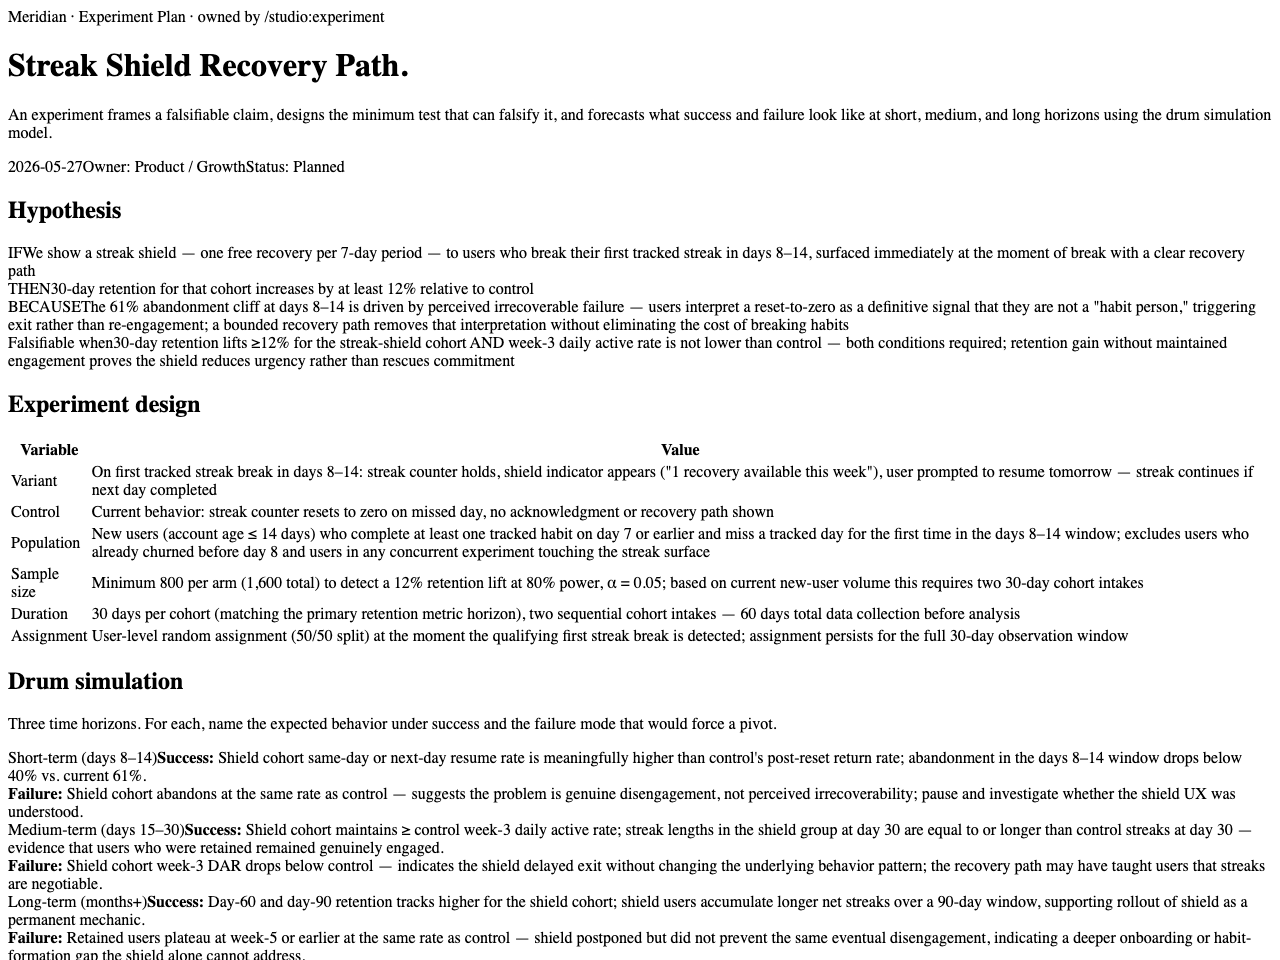
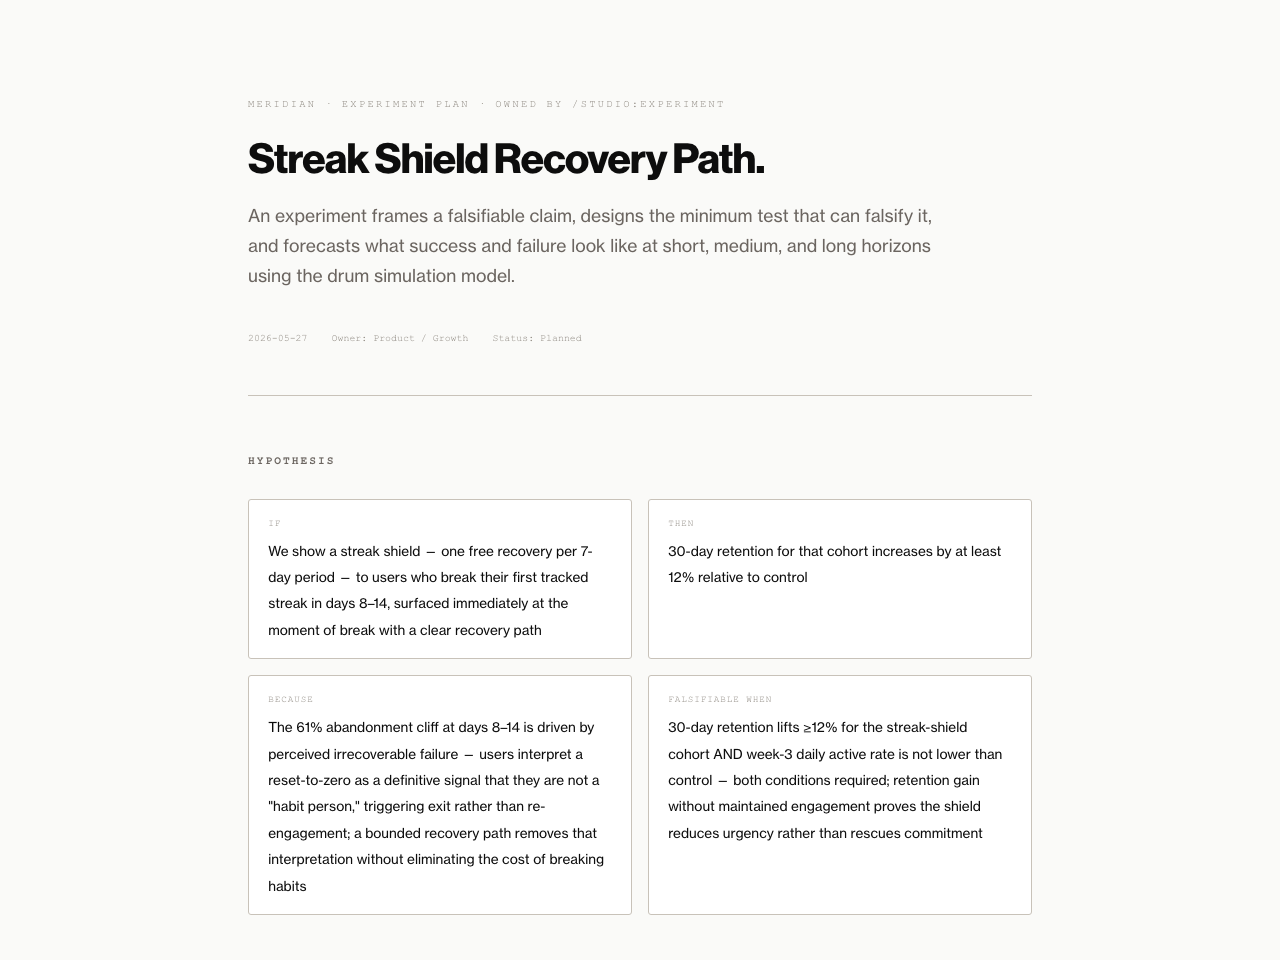
Fix CSS paths in example files + retake screenshots
docs/examples: ../kit/studio.css → ../../artifacts/kit/studio.css
docs/screenshots: all 7 example screenshots retaken with styles applied

diff --git a/docs/examples/vessel-comment-spec.html b/docs/examples/vessel-comment-spec.html
@@ -3,7 +3,7 @@
 <head>
 <meta charset="UTF-8"><meta name="viewport" content="width=device-width, initial-scale=1.0">
 <title>Component Spec — Vessel Comment Thread</title>
-<link rel="stylesheet" href="../kit/studio.css">
+<link rel="stylesheet" href="../../artifacts/kit/studio.css">
 <style>
   .cs-stage{background:var(--bg-1);border:1px solid var(--border);border-radius:6px;padding:2.5rem;display:flex;align-items:center;justify-content:center;min-height:200px}
   .cs-states{display:flex;flex-wrap:wrap;gap:0.4rem;margin:1rem 0}

diff --git a/docs/examples/meridian-streak-experiment.html b/docs/examples/meridian-streak-experiment.html
@@ -4,7 +4,7 @@
 <meta charset="UTF-8">
 <meta name="viewport" content="width=device-width, initial-scale=1.0">
 <title>Experiment — Streak Shield Recovery Path</title>
-<link rel="stylesheet" href="../kit/studio.css">
+<link rel="stylesheet" href="../../artifacts/kit/studio.css">
 <!-- <link rel="stylesheet" href="../../.claude/memory/brand.css"> -->
 </head>
 <body>

diff --git a/docs/examples/compass-checkin-critique.html b/docs/examples/compass-checkin-critique.html
@@ -4,7 +4,7 @@
 <meta charset="UTF-8">
 <meta name="viewport" content="width=device-width, initial-scale=1.0">
 <title>Critique — Compass Goal Check-In Card</title>
-<link rel="stylesheet" href="../kit/studio.css">
+<link rel="stylesheet" href="../../artifacts/kit/studio.css">
 <!-- <link rel="stylesheet" href="../../.claude/memory/brand.css"> -->
 </head>
 <body>

diff --git a/docs/examples/ledger-deduction-competitive.html b/docs/examples/ledger-deduction-competitive.html
@@ -3,7 +3,7 @@
 <head>
 <meta charset="UTF-8"><meta name="viewport" content="width=device-width, initial-scale=1.0">
 <title>Competitive Teardown — Deduction Intelligence in Self-Employed Finance</title>
-<link rel="stylesheet" href="../kit/studio.css">
+<link rel="stylesheet" href="../../artifacts/kit/studio.css">
 </head>
 <body>
 <div class="wrap">

diff --git a/docs/examples/drift-morning-heuristics.html b/docs/examples/drift-morning-heuristics.html
@@ -3,7 +3,7 @@
 <head>
 <meta charset="UTF-8"><meta name="viewport" content="width=device-width, initial-scale=1.0">
 <title>Heuristic Report — Drift Morning Playback</title>
-<link rel="stylesheet" href="../kit/studio.css">
+<link rel="stylesheet" href="../../artifacts/kit/studio.css">
 </head>
 <body>
 <div class="wrap">

diff --git a/docs/examples/folio-share-journey.html b/docs/examples/folio-share-journey.html
@@ -3,7 +3,7 @@
 <head>
 <meta charset="UTF-8"><meta name="viewport" content="width=device-width, initial-scale=1.0">
 <title>User Journey — Folio Client Share</title>
-<link rel="stylesheet" href="../kit/studio.css">
+<link rel="stylesheet" href="../../artifacts/kit/studio.css">
 </head>
 <body>
 <div class="wrap">

diff --git a/docs/examples/keel-weekly-review-wireframe.html b/docs/examples/keel-weekly-review-wireframe.html
@@ -3,7 +3,7 @@
 <head>
 <meta charset="UTF-8"><meta name="viewport" content="width=device-width, initial-scale=1.0">
 <title>Wireframe — Keel · Weekly Review</title>
-<link rel="stylesheet" href="../kit/studio.css">
+<link rel="stylesheet" href="../../artifacts/kit/studio.css">
 </head>
 <body>
 <div class="wrap">
